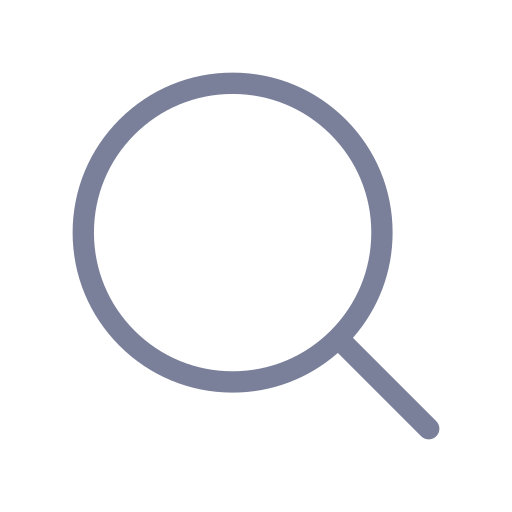
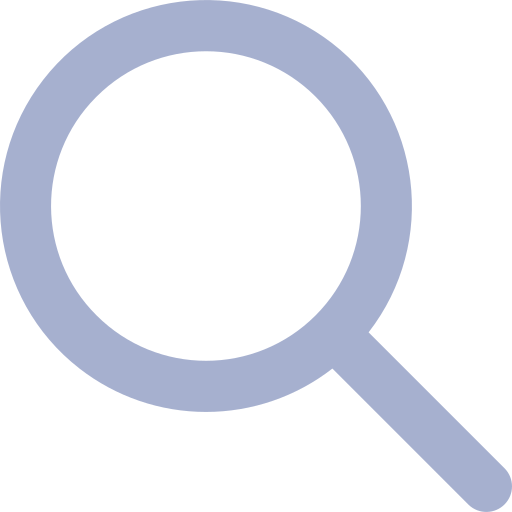
modify design

diff --git a/ClientSide/src/main/resources/view/Styles/mainscreen.css b/ClientSide/src/main/resources/view/Styles/mainscreen.css
@@ -13,9 +13,7 @@
 .button-icon:hover {
   -fx-background-color: #6874cc;
 }
-.icons {
-  -fx-background-color: transparent;
-}
+
 .smooth-border {
   -fx-background-radius: 15px 15px 15px 15px;
 }
@@ -41,11 +39,7 @@
   -fx-background-color: transparent;
   -fx-background-radius: 20 0 20 20;
 }
-.button-pressing:pressed {
-  -fx-background-color: #CBCF92;
-  -fx-background-radius: 20;
-  -fx-border-color: transparent;
-}
+
 .send-btn-background {
   -fx-background-color: #fdfeff;
 }
@@ -57,10 +51,7 @@
   -fx-border-color: #ccd0d4;
    -fx-fill:white;
 }
-.side-bar-buttons:hover {
-  -fx-border-radius: 20;
-  -fx-border-color: #CBCF92;
-}
+
 .mouse-hand {
   -fx-cursor: hand;
 }
@@ -119,3 +110,18 @@
 	  -fx-border-color:#CBCF92
 }
 .color-picker > .label { -fx-text-fill: white; }
+
+.icons {
+  -fx-background-color: transparent;
+  -fx-effect : dropShadow( three-pass-box, rgba(0,0,0,0.2) , 10.0, 0.0, 0.0, 10.0 );
+}
+.button-pressing:pressed {
+  -fx-background-color: #7269ef;
+  -fx-background-radius: 10;
+  -fx-border-color: transparent;
+}
+
+.side-bar-buttons:hover {
+  -fx-border-radius: 10;
+  -fx-border-color: #7269EF;
+}

diff --git a/ServerSide/src/main/resources/view/Styles/chatStyle.css b/ServerSide/src/main/resources/view/Styles/chatStyle.css
@@ -260,5 +260,23 @@
 -fx-border-color:red;
 -fx-border-width: 40px;
 }
+.shadow
+{
+    -fx-effect : dropShadow( three-pass-box, rgba(0,0,0,0.2) , 10.0, 0.0, 0.0, 10.0 );
+}
 
+.icons {
+  -fx-background-color: transparent;
+  -fx-effect : dropShadow( three-pass-box, rgba(0,0,0,0.2) , 10.0, 0.0, 0.0, 10.0 );
+}
+.button-pressing:pressed {
+  -fx-background-color: #7269ef;
+  -fx-background-radius: 5;
+  -fx-border-color: transparent;
+}
+
+.side-bar-buttons:hover {
+  -fx-border-radius: 5;
+  -fx-border-color: #7269EF;
+}
 

diff --git a/ServerSide/src/main/resources/view/Styles/mainscreen.css b/ServerSide/src/main/resources/view/Styles/mainscreen.css
@@ -93,7 +93,23 @@
     -fx-background-radius: 0em;
 }
 
+
 .scroll-bar:vertical .thumb {
     -fx-background-color: white;
     -fx-background-radius: 5em;
+}
+
+.icons {
+  -fx-background-color: transparent;
+  -fx-effect : dropShadow( three-pass-box, rgba(0,0,0,0.2) , 10.0, 0.0, 0.0, 10.0 );
+}
+.button-pressing:pressed {
+  -fx-background-color: #7269ef;
+  -fx-background-radius: 10;
+  -fx-border-color: transparent;
+}
+
+.side-bar-buttons:hover {
+  -fx-border-radius: 10;
+  -fx-border-color: #7269EF;
 }

diff --git a/ClientSide/src/main/resources/view/Styles/chatStyle.css b/ClientSide/src/main/resources/view/Styles/chatStyle.css
@@ -9,7 +9,7 @@
     -whiteColorTransparent:#E1E9F1;
 
     -fontColor:#495057;
-    -iconColor:#a6b0cf;
+    -iconColor:#A6B0CF;
     -test:#57837B;
     -primaryBgColor:#303841;
     -secondBgColor:#36404A;
